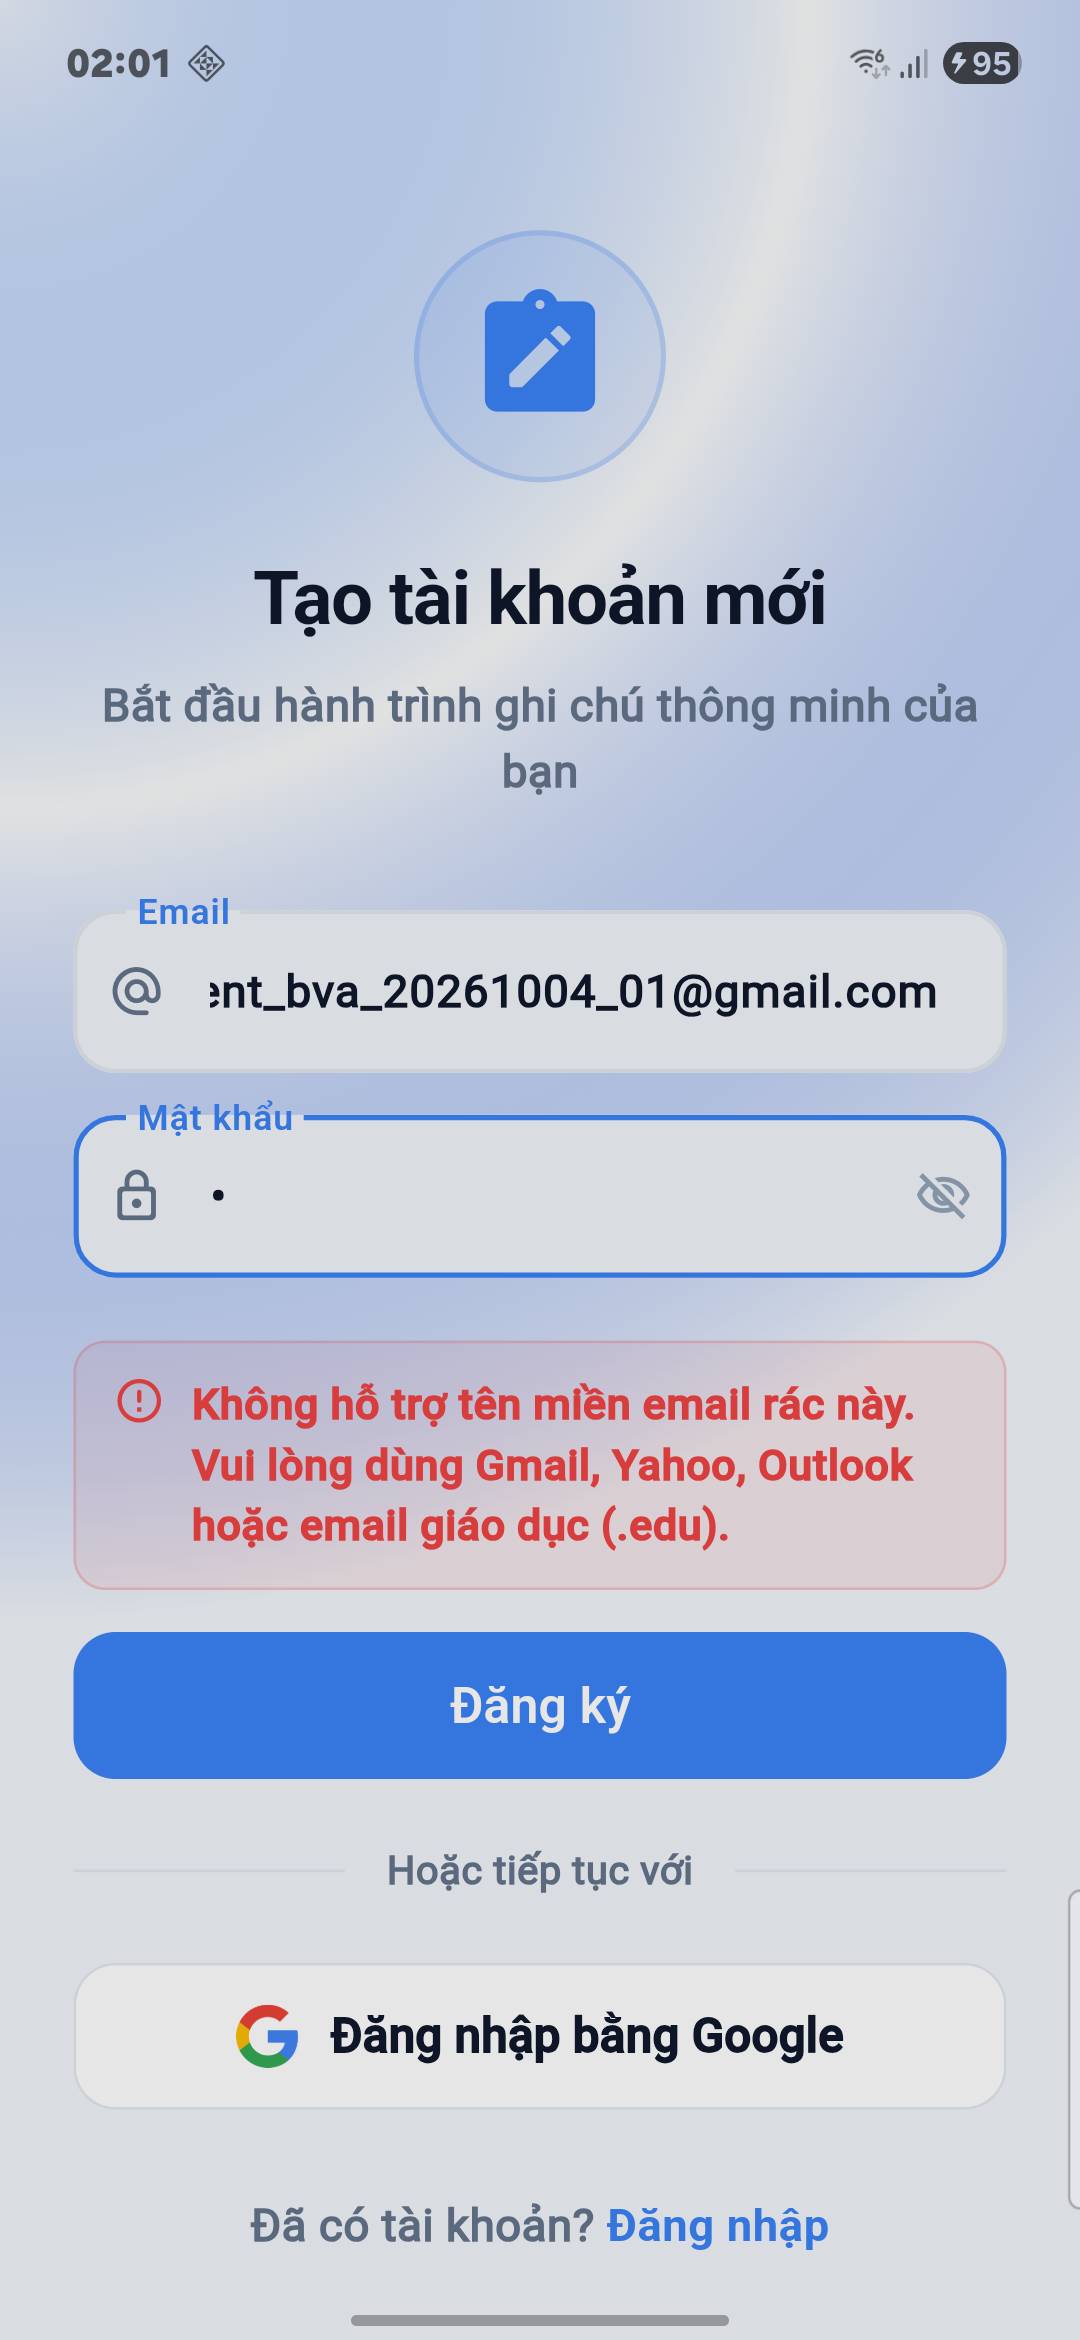
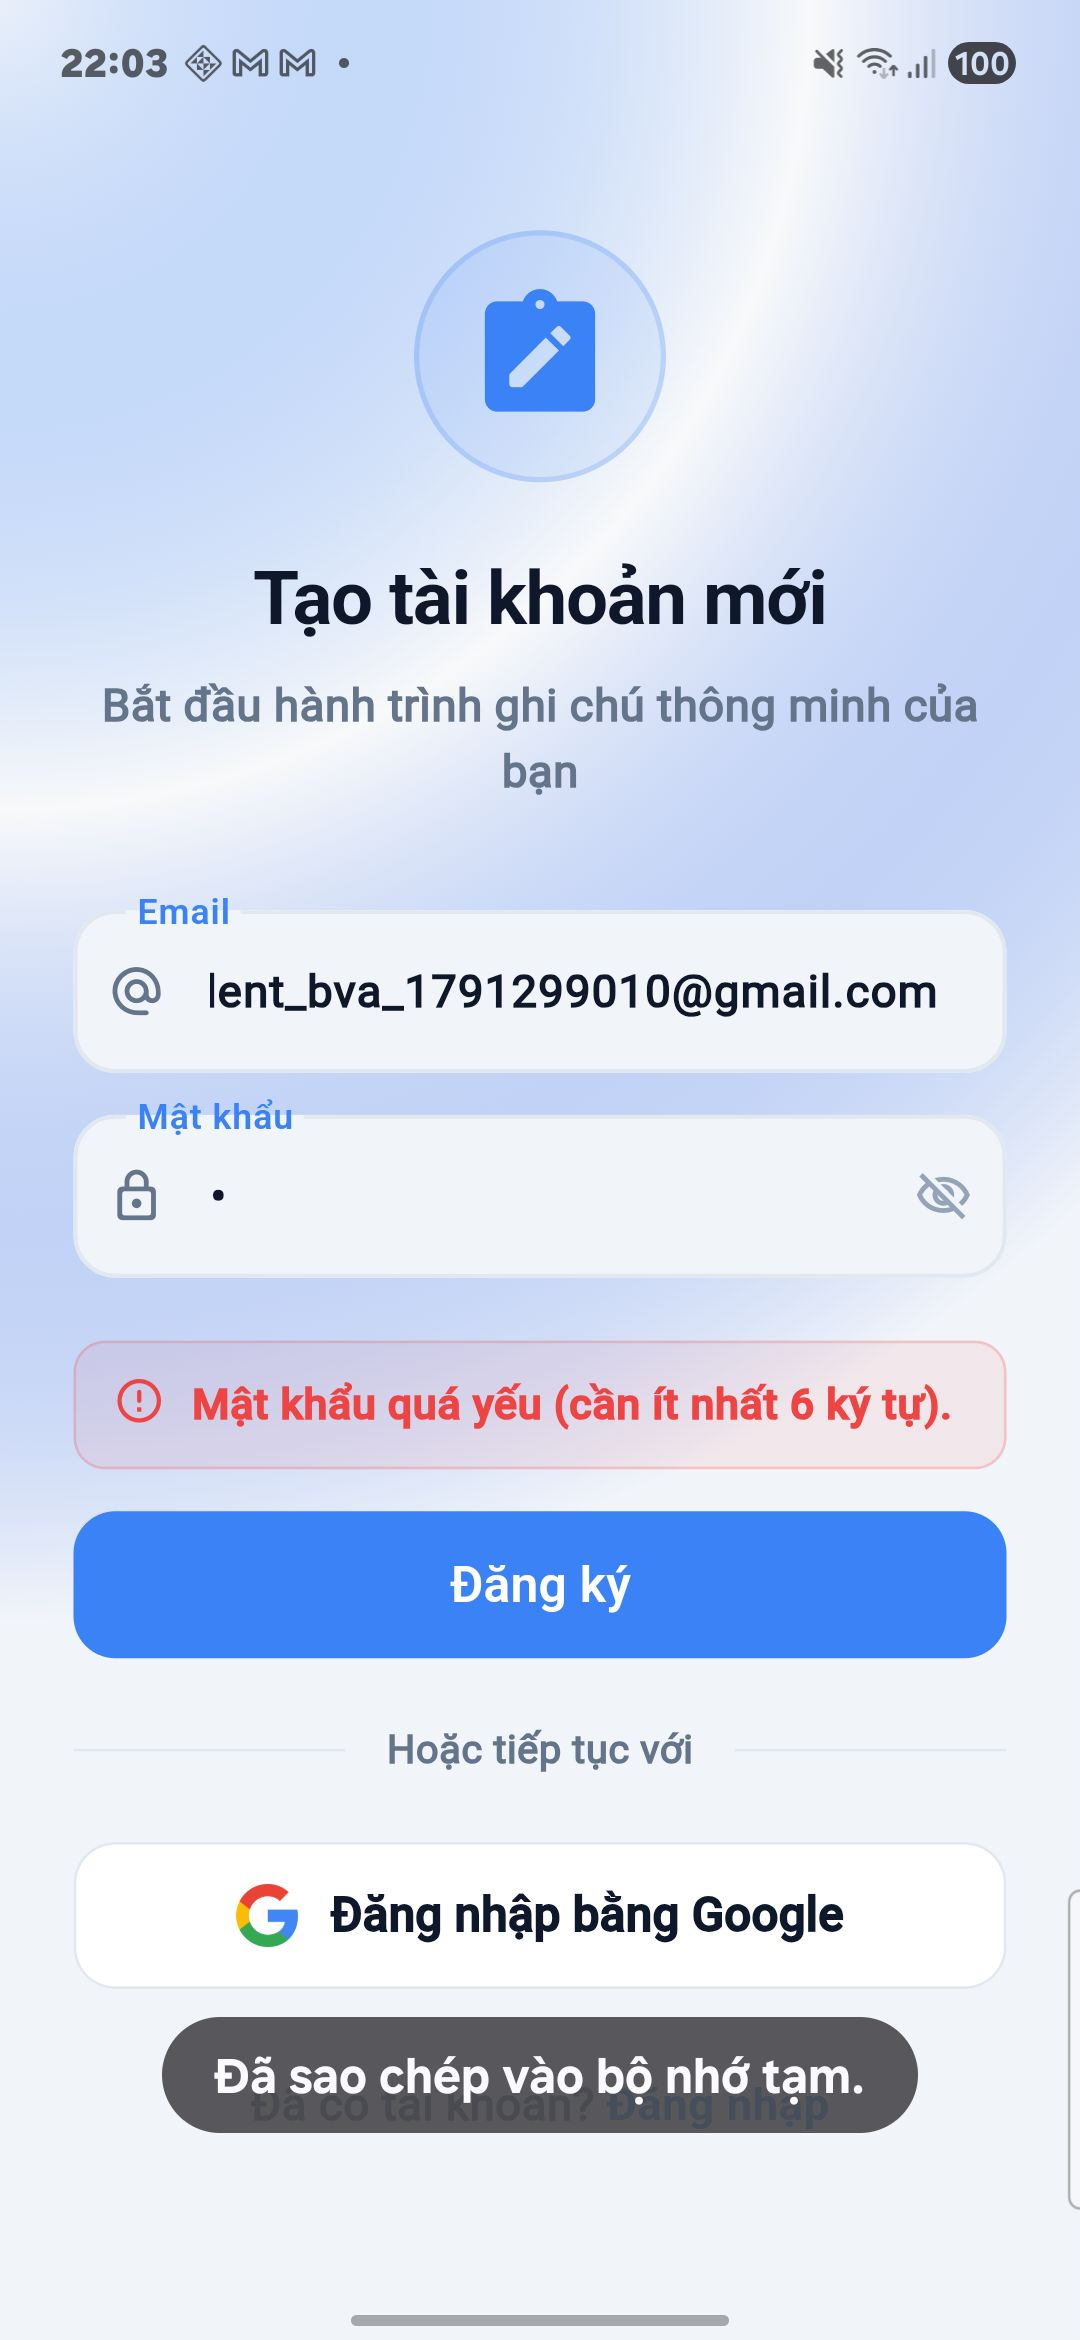
test(phase4): implement AT-08 block registration with weak password under 6 chars

diff --git a/automation/tests/test_fn02_register.py b/automation/tests/test_fn02_register.py
@@ -8,11 +8,11 @@ Test Cases:
 - AT-05 / TC-BB-002C: Chặn đăng ký khi chỉ nhập Mật khẩu và bỏ trống Email (D01)
 - AT-06 / TC-BB-003: Xác minh ứng dụng từ chối các email không hợp lệ hoặc thuộc tên miền không được hỗ trợ (D01, D02)
 - AT-07 / TC-BB-003B: Chặn đăng ký với Email thuộc danh sách đen tên miền rác (D01)
-- TC-BB-004: Xác minh chặn đăng ký khi mật khẩu dưới 6 ký tự (D02)
+- AT-08 / TC-BB-004: Xác minh chặn đăng ký khi mật khẩu dưới 6 ký tự (D01, D02)
 - TC-BB-005: Xác minh thông báo khi đăng ký bằng Email đã tồn tại (D01)
 
 Standards: IEEE 829 & ISTQB Manual / Automation Test Execution
-Device: Samsung Galaxy S21 FE 5G (Android 14)
+Device: Samsung Galaxy S21 FE 5G (SM-G990E, Android 16 / API 36)
 """
 import sys
 import os
@@ -654,8 +654,44 @@ class TestFN02Register:
         """Alias tương thích ngược cho TC-BB-003 D01."""
         return self.test_tc_bb_003_d01_missing_at_symbol()
 
-    def test_tc_bb_004_weak_password(self):
-        """TC-BB-004 (D02): Xác minh chặn đăng ký khi mật khẩu dưới 6 ký tự.
+    def test_tc_bb_004_d01_min_1_char(self):
+        """AT-08 / TC-BB-004 (D01): Xác minh chặn đăng ký khi mật khẩu 1 ký tự (cực tiểu).
+        
+        Test Data:
+        - Email: student_bva_<timestamp>@gmail.com
+        - Mật khẩu: 1 (1 ký tự - điểm cực tiểu không hợp lệ)
+        
+        Expected Result:
+        - Ứng dụng không chuyển màn hình; hiển thị thông báo lỗi màu đỏ:
+          "Mật khẩu quá yếu (cần ít nhất 6 ký tự)."
+        """
+        self.ensure_register_screen()
+        self.clear_fields()
+
+        timestamp = int(time.time())
+        email = f"student_bva_{timestamp}@gmail.com"
+        password = "1"
+
+        email_f, pass_f = self.get_input_fields()
+        self.set_text(email_f, email, "Email")
+        self.set_text(pass_f, password, "Password")
+        self.verify_fields_before_submit(expect_email=True, expect_pass=True)
+
+        self.submit_register()
+
+        err_msg = self.extract_error_message(wait_seconds=4.0)
+
+        # Evidence Capture
+        ev_file = self.driver.capture_evidence("evidence/fn02/FN02_TC-BB-004_D01_01.png")
+        print(f"\n[TC-BB-004 D01] Evidence saved: {ev_file}")
+        print(f"[TC-BB-004 D01] Actual Error Message: {repr(err_msg)}")
+
+        expected = "Mật khẩu quá yếu (cần ít nhất 6 ký tự)."
+        assert self.is_in_register(), "App unexpectedly left RegisterScreen on weak password (1 char)."
+        assert err_msg == expected, f"Expected error '{expected}', but got '{err_msg}'."
+
+    def test_tc_bb_004_d02_boundary_5_chars(self):
+        """AT-08 / TC-BB-004 (D02): Xác minh chặn đăng ký khi mật khẩu dưới 6 ký tự (điểm biên N-1).
         
         Test Data:
         - Email: student_bva_<timestamp>@gmail.com
@@ -683,12 +719,16 @@ class TestFN02Register:
 
         # Evidence Capture
         ev_file = self.driver.capture_evidence("evidence/fn02/FN02_TC-BB-004_D02_01.png")
-        print(f"\n[TC-BB-004] Evidence saved: {ev_file}")
-        print(f"[TC-BB-004] Actual Error Message: {repr(err_msg)}")
+        print(f"\n[TC-BB-004 D02] Evidence saved: {ev_file}")
+        print(f"[TC-BB-004 D02] Actual Error Message: {repr(err_msg)}")
 
         expected = "Mật khẩu quá yếu (cần ít nhất 6 ký tự)."
-        assert self.is_in_register(), "App unexpectedly left RegisterScreen on weak password."
+        assert self.is_in_register(), "App unexpectedly left RegisterScreen on weak password (5 chars)."
         assert err_msg == expected, f"Expected error '{expected}', but got '{err_msg}'."
+
+    def test_tc_bb_004_weak_password(self):
+        """Alias tương thích ngược cho TC-BB-004 D02."""
+        return self.test_tc_bb_004_d02_boundary_5_chars()
 
     def test_tc_bb_005_duplicate_email(self):
         """TC-BB-005 (D01): Xác minh thông báo khi đăng ký bằng Email đã tồn tại.

diff --git a/docs/qa/phase_4_automation_execution_report.md b/docs/qa/phase_4_automation_execution_report.md
@@ -12,7 +12,7 @@
 
 - **Tổng số Test Cases trong kế hoạch tự động hóa (Recommended Suite):** **61 Test Cases**
 - **Tổng số lượt thực thi theo kế hoạch (Planned Executions):** **74 Lượt**
-- **Số Test Cases đã hoàn thành triển khai thực tế trong Phase 4 (Full Implementation):** **07 / 61 Test Cases** (~11.48%)
+- **Số Test Cases đã hoàn thành triển khai thực tế trong Phase 4 (Full Implementation):** **08 / 61 Test Cases** (~13.11%)
   - `AT-01` (`TC-BB-001`): **PASS** (3/3 executions: D01, D02, D03)
   - `AT-02` (`TC-BB-001B`): **PASS** (1/1 execution: D01)
   - `AT-03` (`TC-BB-002`): **PASS** (1/1 execution: D01)
@@ -20,9 +20,10 @@
   - `AT-05` (`TC-BB-002C`): **PASS** (1/1 execution: D01)
   - `AT-06` (`TC-BB-003`): **COMPLETED** (2/2 executions: D01 [FAIL-APP do BUG-FN02-01], D02 [PASS])
   - `AT-07` (`TC-BB-003B`): **PASS** (1/1 execution: D01)
-- **Tổng số lượt thực thi đã hoàn thành trong Phase 4 (Executions Completed):** **10 / 74 Executions** (~13.51%)
-  - Phân loại kết quả thực thi: **09 PASS / 01 FAIL-APP** (Tỷ lệ PASS: 90.00%, 100% ca lỗi là lỗi ứng dụng đã xác nhận)
-- **Số Test Cases còn lại cần triển khai tuần tự:** **54 / 61 Test Cases** (64 Lượt thực thi)
+  - `AT-08` (`TC-BB-004`): **PASS** (2/2 executions: D01, D02)
+- **Tổng số lượt thực thi đã hoàn thành trong Phase 4 (Executions Completed):** **12 / 74 Executions** (~16.22%)
+  - Phân loại kết quả thực thi: **11 PASS / 01 FAIL-APP** (Tỷ lệ PASS: 91.67%, 100% ca lỗi là lỗi ứng dụng đã xác nhận)
+- **Số Test Cases còn lại cần triển khai tuần tự:** **53 / 61 Test Cases** (62 Lượt thực thi)
 - **Ghi chú về giai đoạn Thăm dò khả thi (Pre-Phase 4 Feasibility Validation):**
   - Trước khi bước vào triển khai chính thức theo từng iteration, 03 Test Cases (`AT-21`, `AT-59`, `AT-60`) đã được thực hiện thăm dò khả thi kỹ thuật độc lập (Commit `21d66de`) với kết quả: `AT-21` (PASS), `AT-59` (PASS), `AT-60` (PASS WITH PRECONDITION).
   - *Nguyên tắc thống kê tiến độ:* Các ca Feasibility Validation không được tính gộp tự động vào số Test Cases hoàn thành chính thức của Phase 4; chúng được theo dõi riêng biệt và sẽ được tích hợp chính thức vào bộ test của hàm tương ứng khi lộ trình tuần tự đến các mã AT này.
@@ -42,6 +43,8 @@
 | 8 | **AT-06** | `TC-BB-003` | FN-02 | **D01** (Thiếu ký tự @) | `test_tc_bb_003_d01_missing_at_symbol` | **FAIL-APP** | ~41s | [`evidence/fn02/FN02_TC-BB-003_D01_01.png`](../../evidence/fn02/FN02_TC-BB-003_D01_01.png) | **BUG-FN02-01** |
 | 9 | **AT-06** | `TC-BB-003` | FN-02 | **D02** (Thiếu tên miền) | `test_tc_bb_003_d02_missing_domain` | **PASS** | ~41s | [`evidence/fn02/FN02_TC-BB-003_D02_01.png`](../../evidence/fn02/FN02_TC-BB-003_D02_01.png) | Không |
 | 10 | **AT-07** | `TC-BB-003B` | FN-02 | **D01** (Domain rác tempmail.com) | `test_tc_bb_003b_disposable_email` | **PASS** | ~39s | [`evidence/fn02/FN02_TC-BB-003B_D01_01.png`](../../evidence/fn02/FN02_TC-BB-003B_D01_01.png) | Không |
+| 11 | **AT-08** | `TC-BB-004` | FN-02 | **D01** (Mật khẩu 1 ký tự) | `test_tc_bb_004_d01_min_1_char` | **PASS** | ~38s | [`evidence/fn02/FN02_TC-BB-004_D01_01.png`](../../evidence/fn02/FN02_TC-BB-004_D01_01.png) | Không |
+| 12 | **AT-08** | `TC-BB-004` | FN-02 | **D02** (Mật khẩu 5 ký tự) | `test_tc_bb_004_d02_boundary_5_chars` | **PASS** | ~37s | [`evidence/fn02/FN02_TC-BB-004_D02_01.png`](../../evidence/fn02/FN02_TC-BB-004_D02_01.png) | Không |
 | 28 | **AT-21** | `TC-BB-011` | FN-05 | **D01** (Hủy Account Picker) | `test_at21_cancel_google_account_picker` | **PASS** | ~17s | [`evidence/fn05/FN05_TC-BB-011_D01_01.png`](../../evidence/fn05/FN05_TC-BB-011_D01_01.png), [`evidence/fn05/FN05_TC-BB-011_D01_02.png`](../../evidence/fn05/FN05_TC-BB-011_D01_02.png) | Không |
 | 72 | **AT-59** | `TC-BB-015` | FN-29/30 | **D01** (Hủy Biometric Prompt) | `test_at59_cancel_biometric_prompt` | **PASS** | ~17s | [`evidence/fn29_30/FN29_30_TC-BB-015_D01_01.png`](../../evidence/fn29_30/FN29_30_TC-BB-015_D01_01.png), [`evidence/fn29_30/FN29_30_TC-BB-015_D01_02.png`](../../evidence/fn29_30/FN29_30_TC-BB-015_D01_02.png) | Không |
 | 73 | **AT-60** | `TC-BB-015C` | FN-29/30 | **D01** (Back từ Locked Note) | `test_at60_back_navigation_from_locked_note` | **PASS WITH PRECONDITION** | ~19s | [`evidence/fn29_30/FN29_30_TC-BB-015C_D01_01.png`](../../evidence/fn29_30/FN29_30_TC-BB-015C_D01_01.png), [`evidence/fn29_30/FN29_30_TC-BB-015C_D01_02.png`](../../evidence/fn29_30/FN29_30_TC-BB-015C_D01_02.png) | Không |
@@ -186,4 +189,27 @@ ightarrow$ Xác nhận lỗi ứng dụng **BUG-FN02-01**).
 - **Minh chứng thực tế:**
   - `evidence/fn02/FN02_TC-BB-003B_D01_01.png`
 - **Kết quả kiểm thử hồi quy (Smoke Regression):** `pytest automation/tests/test_fn02_register.py -k "test_tc_bb_003_d01 or test_tc_bb_003_d02" -v -s` $\rightarrow$ **D01: FAIL-APP (BUG-FN02-01 xác nhận lại), D02: PASS** — tổng hợp: 1 PASSED + 1 FAILED-APP (ổn định, khớp với kết quả AT-06).
+
+### Iteration 8: AT-08 / TC-BB-004 (Xác minh chặn đăng ký khi mật khẩu dưới 6 ký tự - Cực tiểu và Biên N-1)
+- **Mã AT:** `AT-08`
+- **Mã Manual TC:** `TC-BB-004`
+- **Nhóm chức năng:** `FN-02` (Đăng ký tài khoản Email/Password)
+- **Mức độ ưu tiên:** `P1`
+- **Tiền điều kiện:** Ứng dụng ở màn hình Đăng ký (`RegisterScreen`); thiết bị có kết nối Internet ổn định.
+- **Dữ liệu kiểm thử (2 Executions):**
+  - **D01:** Email `student_bva_<timestamp>@gmail.com`, Mật khẩu `1` (1 ký tự - điểm cực tiểu không hợp lệ).
+  - **D02:** Email `student_bva_<timestamp>@gmail.com`, Mật khẩu `12345` (5 ký tự - điểm biên cận dưới $N-1$ không hợp lệ).
+- **Hành vi quan sát được (Observable UI Behavior):**
+  - **D01:** Ứng dụng không chuyển màn hình; xuất hiện khung lỗi đỏ hiển thị: *"Mật khẩu quá yếu (cần ít nhất 6 ký tự)."* — khớp hoàn toàn với đặc tả kỳ vọng.
+  - **D02:** Ứng dụng không chuyển màn hình; xuất hiện khung lỗi đỏ hiển thị: *"Mật khẩu quá yếu (cần ít nhất 6 ký tự)."* — khớp hoàn toàn với đặc tả kỳ vọng.
+- **File mã nguồn test:** [`automation/tests/test_fn02_register.py`](../../automation/tests/test_fn02_register.py)
+  - `test_tc_bb_004_d01_min_1_char`
+  - `test_tc_bb_004_d02_boundary_5_chars`
+  - `test_tc_bb_004_weak_password` (alias tương thích ngược)
+- **Kết quả thực thi:** **PASS (2/2 Executions)**
+- **Thời gian thực thi:** 75.24s (chạy cả 2 executions trên Samsung Galaxy S21 FE 5G với teardown cách ly an toàn).
+- **Minh chứng thực tế:**
+  - `evidence/fn02/FN02_TC-BB-004_D01_01.png`
+  - `evidence/fn02/FN02_TC-BB-004_D02_01.png`
+- **Kết quả kiểm thử hồi quy (Smoke Regression):** `pytest automation/tests/test_fn02_register.py -k "test_tc_bb_003b_disposable_email or test_tc_bb_002c_missing_email" -v -s` $\rightarrow$ **2 PASSED in 81.52s** (các ca kiểm thử trước đó trong FN-02 đều hoạt động ổn định).
 

diff --git a/automation/reports/fn02_automation_report.md b/automation/reports/fn02_automation_report.md
@@ -4,7 +4,7 @@
 **Nhóm chức năng:** FN-02: Đăng ký tài khoản Email/Password  
 **Danh sách Test Cases:** TC-BB-001, TC-BB-001B, TC-BB-002, TC-BB-002B, TC-BB-002C, TC-BB-003, TC-BB-003B, TC-BB-004, TC-BB-005  
 **Framework:** Python 3.13 + pytest + uiautomator2 + ADB  
-**Thiết bị thực thi:** Samsung Galaxy S21 FE 5G (SM-G990B / R5CW82ECF6M), Android 14 (API 34)  
+**Thiết bị thực thi:** Samsung Galaxy S21 FE 5G (SM-G990E / R5CW82ECF6M), Android 16 (API 36)  
 **Ngày thực thi:** 05/10/2026  
 **Tiêu chuẩn áp dụng:** IEEE 829 & ISTQB Manual / Automation Execution  
 
@@ -38,7 +38,8 @@
 | **TC-BB-003** (AT-06) | **D01** | • Email: `nguoidung_gmail.com`<br>• Mật khẩu: `123456` | Ứng dụng không chuyển màn hình; hiển thị thông báo lỗi màu đỏ: *"Định dạng email không hợp lệ."* | Ứng dụng giữ nguyên màn hình Đăng ký; hiển thị thông báo lỗi màu đỏ: *"Không hỗ trợ tên miền email rác này. Vui lòng dùng Gmail, Yahoo, Outlook hoặc email giáo dục (.edu)."* | **FAIL** | **BUG-FN02-01** | Hàm `_isValidDomain(email)` trong `auth_provider.dart` kiểm tra `email.split('@').length < 2` và trả về `false`, gán nhầm thông báo domain email rác thay vì báo lỗi định dạng email. Khớp hoàn toàn với phát hiện kiểm thử thủ công trong `fn02_execution_sheet.md`. | [`FN02_TC-BB-003_D01_01.png`](../../evidence/fn02/FN02_TC-BB-003_D01_01.png) |
 | **TC-BB-003** (AT-06) | **D02** | • Email: `nguoidung@`<br>• Mật khẩu: `123456` | Ứng dụng không chuyển màn hình; hiển thị thông báo lỗi màu đỏ: *"Định dạng email không hợp lệ."* | Ứng dụng giữ nguyên màn hình Đăng ký; hiển thị thông báo lỗi màu đỏ: *"Định dạng email không hợp lệ."* | **PASS** | — | Firebase Auth ném mã lỗi `invalid-email` và hàm `_translateAuthError` ánh xạ chính xác sang thông báo lỗi định dạng chuẩn; uiautomator2 xác nhận thông báo hiển thị đúng trên UI. | [`FN02_TC-BB-003_D02_01.png`](../../evidence/fn02/FN02_TC-BB-003_D02_01.png) |
 | **TC-BB-003B** (AT-07) | **D01** | • Email: `test_user_01@tempmail.com`<br>(thuộc danh sách đen tên miền rác)<br>• Mật khẩu: `123456` | Ứng dụng không chuyển màn hình; hiển thị thông báo lỗi màu đỏ: *"Không hỗ trợ tên miền email rác này. Vui lòng dùng Gmail, Yahoo, Outlook hoặc email giáo dục (.edu)."* | Ứng dụng giữ nguyên màn hình Đăng ký và hiển thị chính xác thông báo lỗi domain rác màu đỏ trên form. | **PASS** | — | Email có cấu trúc hợp lệ nhưng tên miền `tempmail.com` nằm trong danh sách đen; hàm `_isValidDomain()` phát hiện chính xác domain rác và trả thông báo lỗi tương ứng. | [`FN02_TC-BB-003B_D01_01.png`](../../evidence/fn02/FN02_TC-BB-003B_D01_01.png) |
-| **TC-BB-004** | **D02** | • Email: `student_bva_<timestamp>@gmail.com`<br>• Mật khẩu: `12345` (5 ký tự) | Ứng dụng không chuyển màn hình; hiển thị thông báo lỗi màu đỏ: *"Mật khẩu quá yếu (cần ít nhất 6 ký tự)."* | Ứng dụng giữ nguyên màn hình Đăng ký; hiển thị thông báo lỗi màu đỏ: *"Mật khẩu quá yếu (cần ít nhất 6 ký tự)."* | **PASS** | — | Kiểm tra giá trị biên cận dưới ($N - 1 = 5$ ký tự); Firebase Auth trả về `weak-password` và `_translateAuthError` ánh xạ thành công thông báo chuẩn. | [`FN02_TC-BB-004_D02_01.png`](../../evidence/fn02/FN02_TC-BB-004_D02_01.png) |
+| **TC-BB-004** (AT-08) | **D01** | • Email: `student_bva_<timestamp>@gmail.com`<br>• Mật khẩu: `1` (1 ký tự - cực tiểu) | Ứng dụng không chuyển màn hình; hiển thị thông báo lỗi màu đỏ: *"Mật khẩu quá yếu (cần ít nhất 6 ký tự)."* | Ứng dụng giữ nguyên màn hình Đăng ký; hiển thị thông báo lỗi màu đỏ: *"Mật khẩu quá yếu (cần ít nhất 6 ký tự)."* | **PASS** | — | Kiểm tra giá trị cực tiểu ($1$ ký tự); Firebase Auth trả về `weak-password` và `_translateAuthError` ánh xạ thành công thông báo chuẩn. | [`FN02_TC-BB-004_D01_01.png`](../../evidence/fn02/FN02_TC-BB-004_D01_01.png) |
+| **TC-BB-004** (AT-08) | **D02** | • Email: `student_bva_<timestamp>@gmail.com`<br>• Mật khẩu: `12345` (5 ký tự - biên N-1) | Ứng dụng không chuyển màn hình; hiển thị thông báo lỗi màu đỏ: *"Mật khẩu quá yếu (cần ít nhất 6 ký tự)."* | Ứng dụng giữ nguyên màn hình Đăng ký; hiển thị thông báo lỗi màu đỏ: *"Mật khẩu quá yếu (cần ít nhất 6 ký tự)."* | **PASS** | — | Kiểm tra giá trị biên cận dưới ($N - 1 = 5$ ký tự); Firebase Auth trả về `weak-password` và `_translateAuthError` ánh xạ thành công thông báo chuẩn. | [`FN02_TC-BB-004_D02_01.png`](../../evidence/fn02/FN02_TC-BB-004_D02_01.png) |
 | **TC-BB-005** | **D01** | • Email: `student_qa@gmail.com`<br>• Mật khẩu: `123456` | Ứng dụng không chuyển màn hình; hiển thị thông báo lỗi màu đỏ: *"Email này đã được sử dụng cho một tài khoản khác."* | Ứng dụng giữ nguyên màn hình Đăng ký; hiển thị thông báo lỗi màu đỏ: *"Email này đã được sử dụng cho một tài khoản khác."* | **PASS** | — | Nhập email đã tồn tại trên hệ thống; Firebase Auth trả về mã lỗi `email-already-in-use`, giao diện hiển thị thông báo lỗi chính xác. | [`FN02_TC-BB-005_D01_01.png`](../../evidence/fn02/FN02_TC-BB-005_D01_01.png) |
 
 ---
